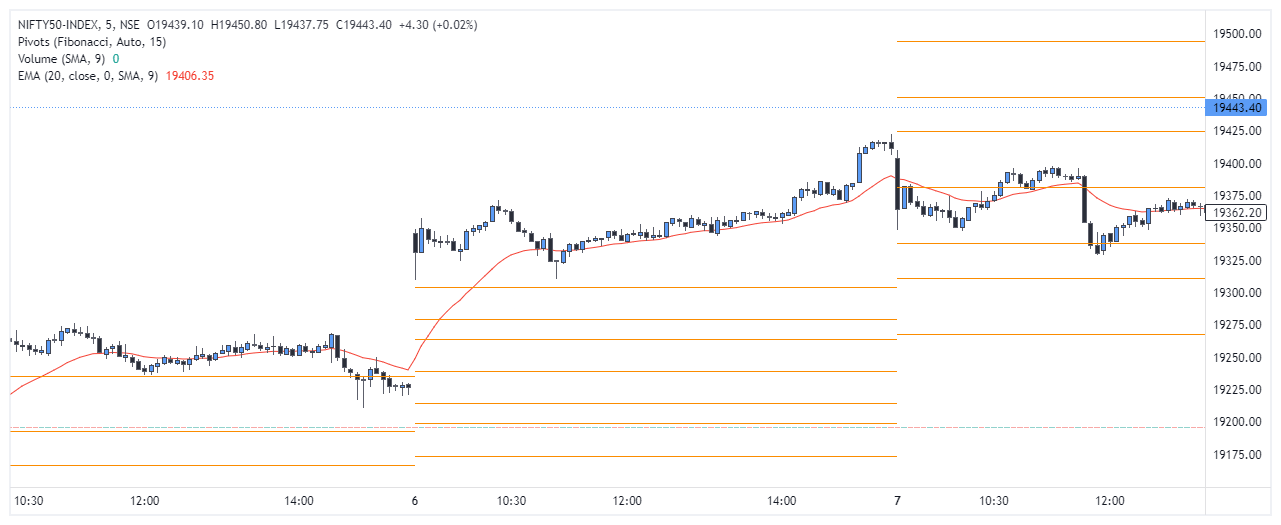
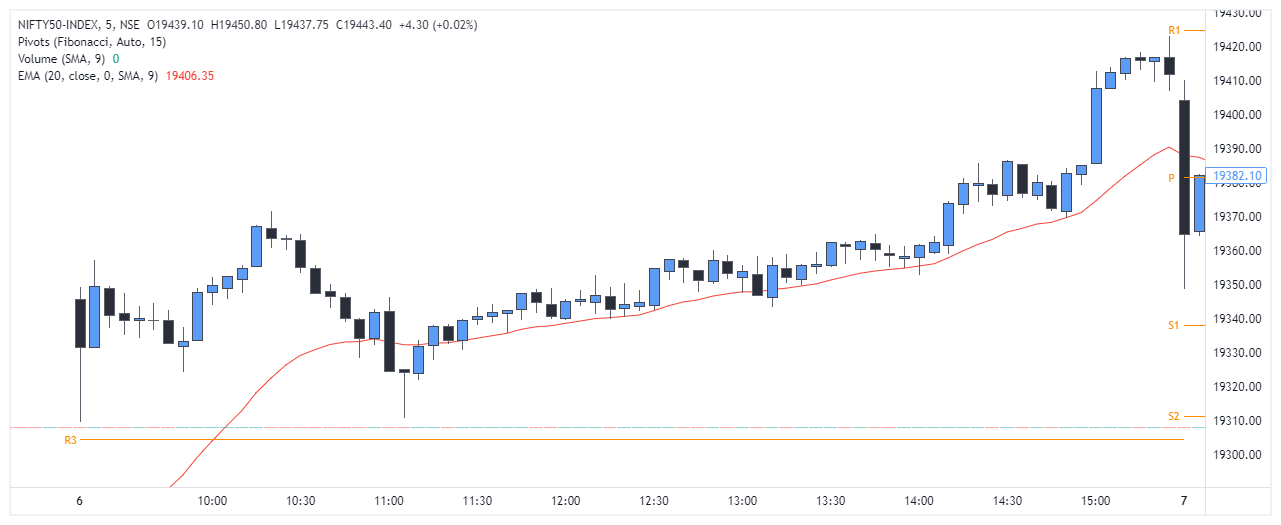
added 1 post

diff --git a/_posts/2023-10-06-Day_1.md b/_posts/2023-10-06-Day_1.md
@@ -6,12 +6,15 @@ categories: [General]
 tags: [Report]     # TAG names should always be lowercase
 ---
 
-## Date: 6th November, 2023 (Monday)
+# Date: 6th November, 2023 (Monday)
 
 
-* Overall nifty movement
+### Overall nifty movement
 
 ![Overall trend](/images/06-11-2023/overall.png)
 
+Nifty opened around 100 point gap up and stayed above R3 Fiv pivot and 20 EMA whole day. Though intraday move from opening is only about 70 indicating not so bullish market.
+
+### Intraday trades:
 
 
